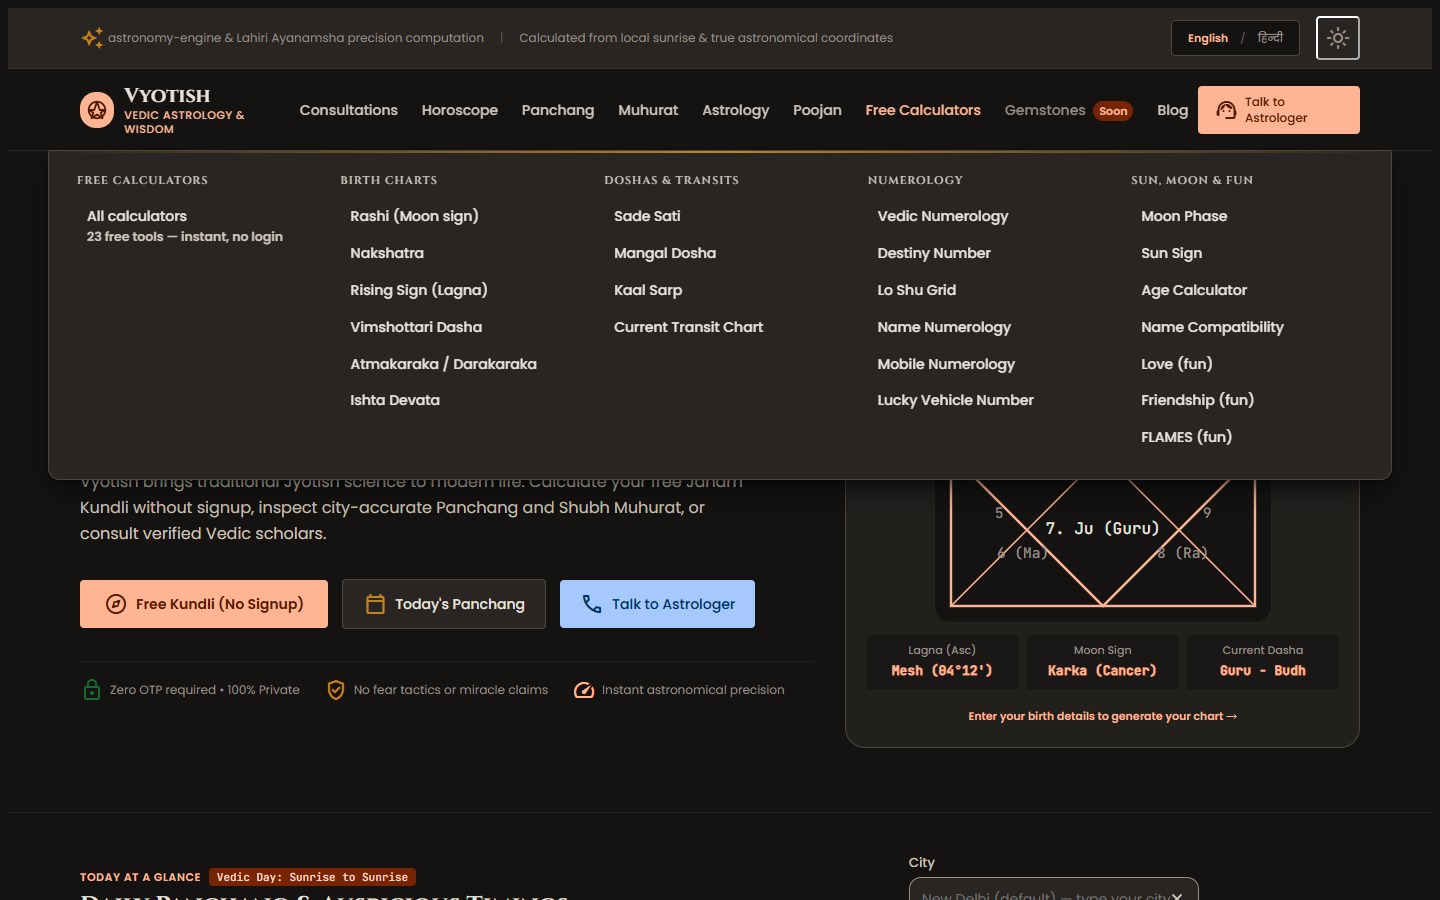
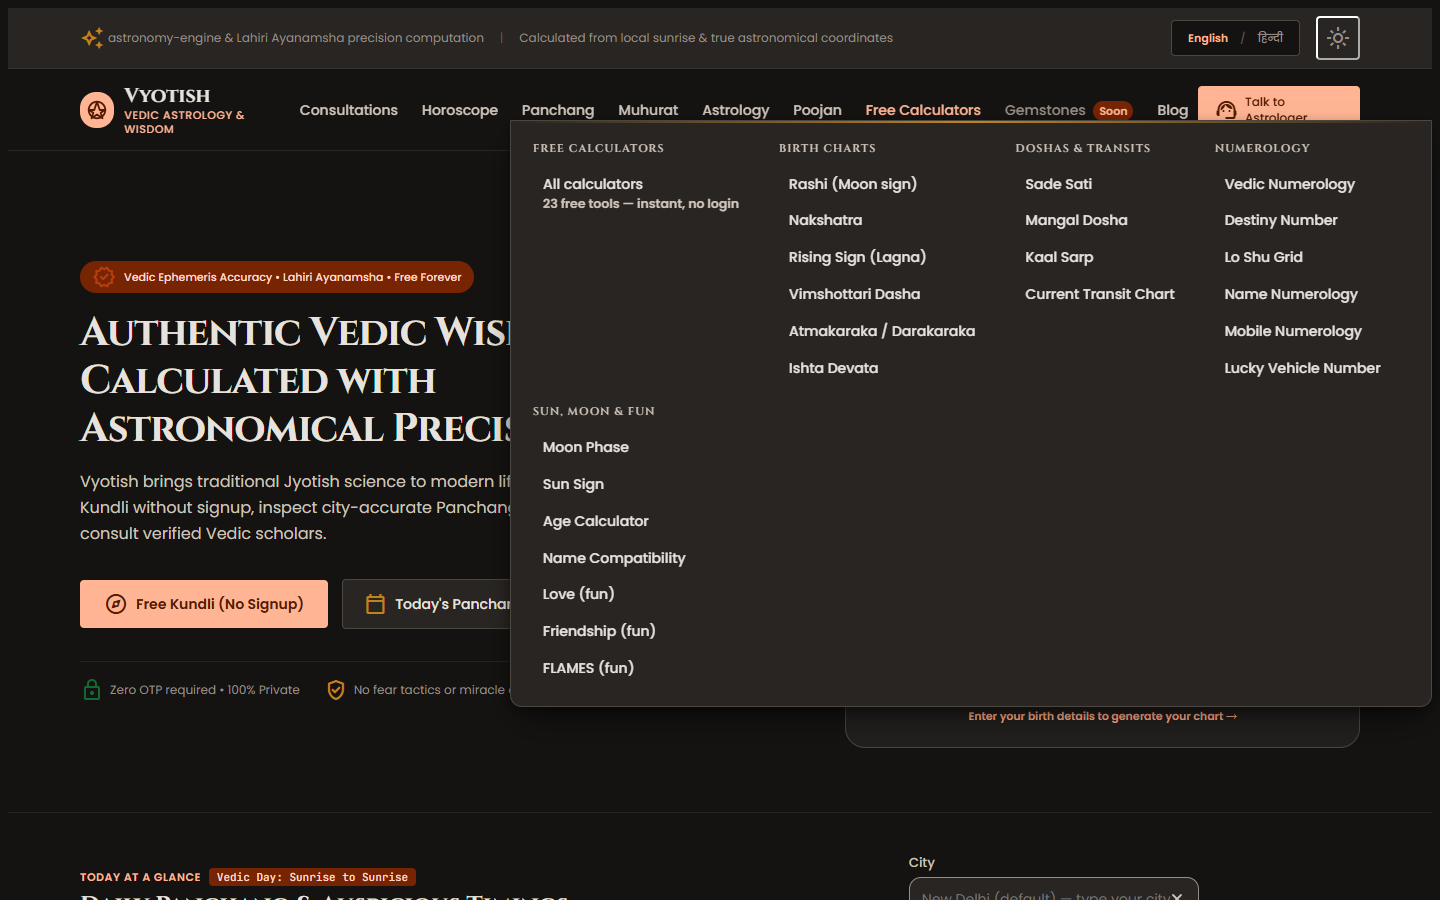
docs(s17): compact per-tab panel amendment + re-review APPROVED, QA evidence — pins frontend 660798f

diff --git a/_bmad-output/megamenu/stories/S17-1.md b/_bmad-output/megamenu/stories/S17-1.md
@@ -66,3 +66,12 @@ Reviewed the four changed/added files against the ACs. **Verdict: APPROVED** aft
 - Verified OK: single config source (desktop panel + accordion both render from `NAV_TABS[].menu`; no duplicated link lists); additive `menu?` keeps Footer/ExploreTiles compiling; panel gated by `hidden` so links are only tabbable while open; `aria-expanded`/`aria-controls` only on tabs with menus; `restoringFocus` guard prevents Escape-refocus re-open; pointer handlers ignore non-mouse pointers and check `canHover()` at event time; panels positioned to `.site-header-inner` (`left:0;right:0`) so they cannot exceed the container at any width; `z-50` inside the sticky header's `z-40` stacking context renders above page content; dark-mode overrides correctly `:global([data-theme="dark"])` (Astro would scope the html-attribute ancestor selector otherwise); `id="book"` on the shared BookingForm is unique per page (component used once per route) and serves both `/consultations#book` and `/poojan#book`; e2e asserts 68/68 sub-links resolve 200 and axe wcag2aa clean light+dark with a panel open.
 - Notes (accepted, no action): `item.dataset.open` is bookkeeping state not yet consumed by CSS; multiple mobile accordions may be open at once (independent disclose, per story); desktop chevrons deliberately omitted — the 9-tab row is width-bound at the 1280px entry point.
 - Evidence: `_bmad-output/megamenu/qa/report.json` (28/28), shots light/dark × 1440/1280 + 360/768 accordion; regression `qa/e2e-aria.mjs` and `qa/e2e-contrast.mjs` ALL PASS post-change.
+
+## Amendment 2026-11-22 — compact per-tab panels (owner feedback) · re-review APPROVED
+
+Owner after seeing the full-width bar: panels should be "little small which should be good visibility wise. width should be sub-categories option wise not fixed for all tabs." Changes (geometry only — config, a11y wiring, delays, accordion all untouched):
+
+- Panels anchor to their own tab (`.mm-item { position: relative }`, `top: 100%; left: 0`) instead of spanning the header container, and size to their sub-categories: `width: max-content`, `min-width: 260px`, `max-width: min(920px, calc(100vw − 32px))`. `.mm-cols` switched grid → wrapping flex of natural-width groups (whole groups wrap at the cap — only Free Calculators wraps, to 2 rows); `.mm-desc` capped at 230px so long descriptions wrap instead of stretching narrow tabs.
+- JS clamp on open: if the panel's right edge would leave the viewport it shifts left to sit 8px inside (never past an 8px left margin); the trigger always stays within the panel's x-span, so moving the pointer straight down still lands in it. All panels close on viewport `resize` so a shrunken window can't leave one poking out. AC-7 (no overflow) preserved — now enforced per-panel instead of by full-width layout.
+- Measured widths at 1440: Blog 471 · Astrology 544 · Poojan 552 · Consultations/Muhurat 576 · Panchang 680 · Horoscope 850 · Free Calculators 922 (was 1344 fixed for all).
+- E2e strengthened: M12 now opens **all 8 panels** at 1440 and 1280 and asserts each fits the viewport; new M16 asserts content-sizing (all ≤ cap + ≥5 distinct widths). 30/30 pass. Two test-only fixes found on the first run: M5's "move away" point landed *inside* the now-taller Calculators panel (correctly stayed open) → move below the measured panel; shots captured mid 140ms fade looked translucent → 250ms settle before screenshots. `e2e-aria` + `e2e-contrast` re-run ALL PASS.
